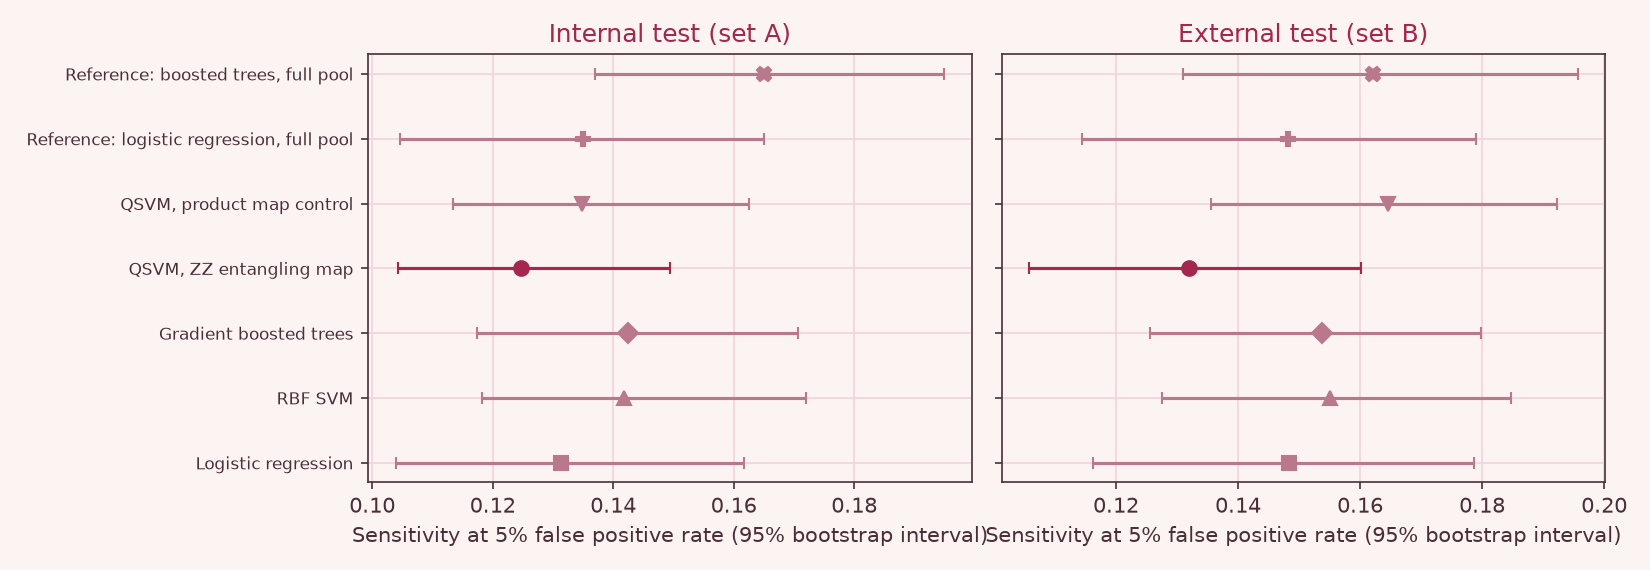
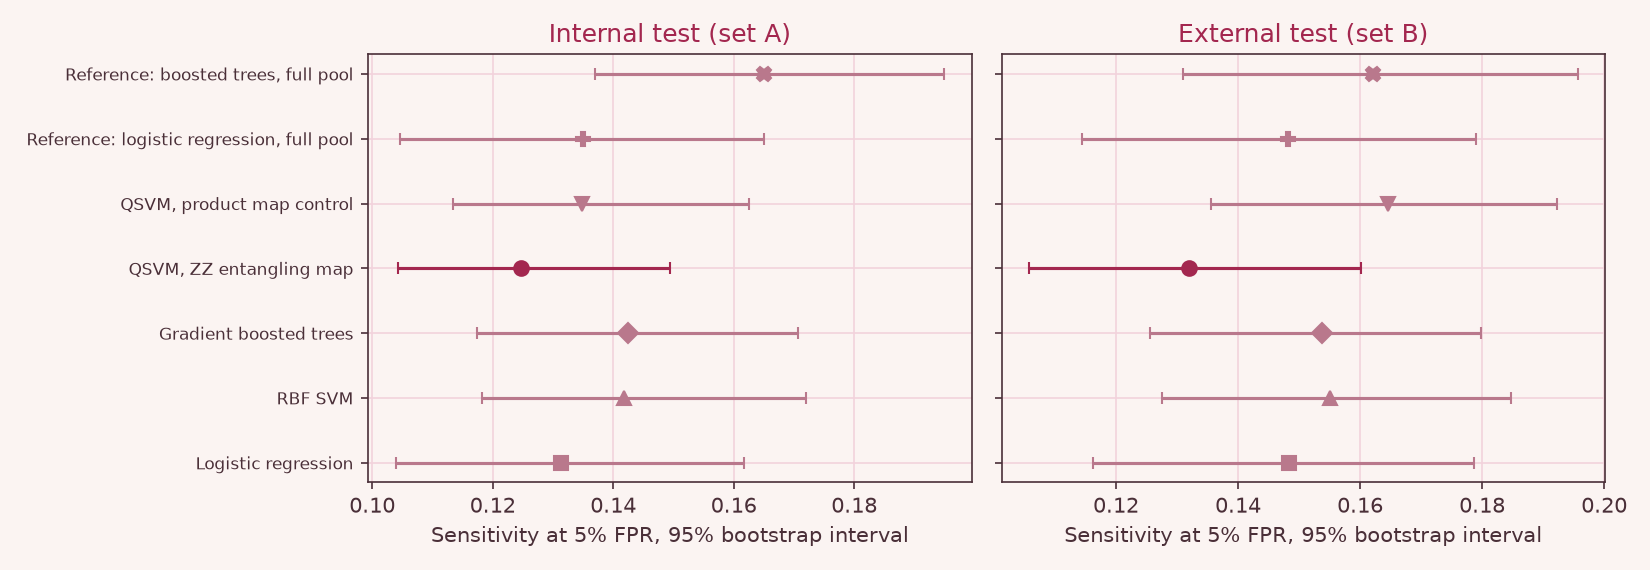
Shorten interval figure axis labels and lighten learning curve bands

Changed region(s): [[0.2164, 0.9246, 0.9891, 0.9544]]

diff --git a/src/sepsis6q/plots.py b/src/sepsis6q/plots.py
@@ -43,7 +43,7 @@ def learning_curves(out):
                 continue
             mean, lo, hi = g.mean(), g.min(), g.max()
             ax.plot(mean.index, mean.values, color=st["color"], ls=st["ls"], marker=st["marker"], label=st["label"])
-            ax.fill_between(mean.index, lo.values, hi.values, color=st["color"], alpha=0.12)
+            ax.fill_between(mean.index, lo.values, hi.values, color=st["color"], alpha=0.07)
         if ref is not None:
             for name, (color, ls, label) in REF_STYLE.items():
                 r = ref[(ref["model"] == name) & (ref["set"] == set_name)]
@@ -83,7 +83,7 @@ def headline_intervals(out):
         ax.set_yticklabels([labels[k] for k in order], fontsize=8)
         ax.invert_yaxis()
         ax.set_title(SET_TITLE[set_name], color=ROSE)
-        ax.set_xlabel("Sensitivity at 5% false positive rate (95% bootstrap interval)")
+        ax.set_xlabel("Sensitivity at 5% FPR, 95% bootstrap interval")
     fig.tight_layout()
     fig.savefig(out / "headline_intervals.png", dpi=150)
     plt.close(fig)
